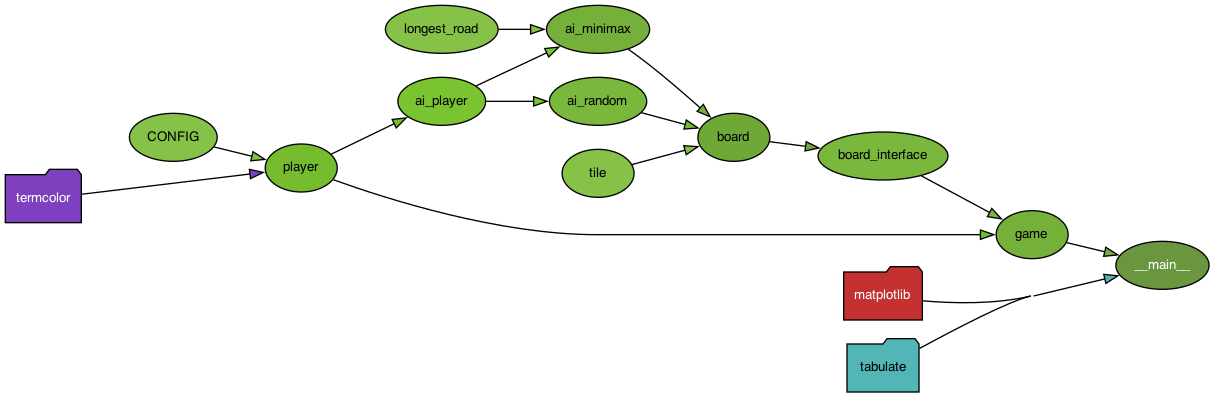
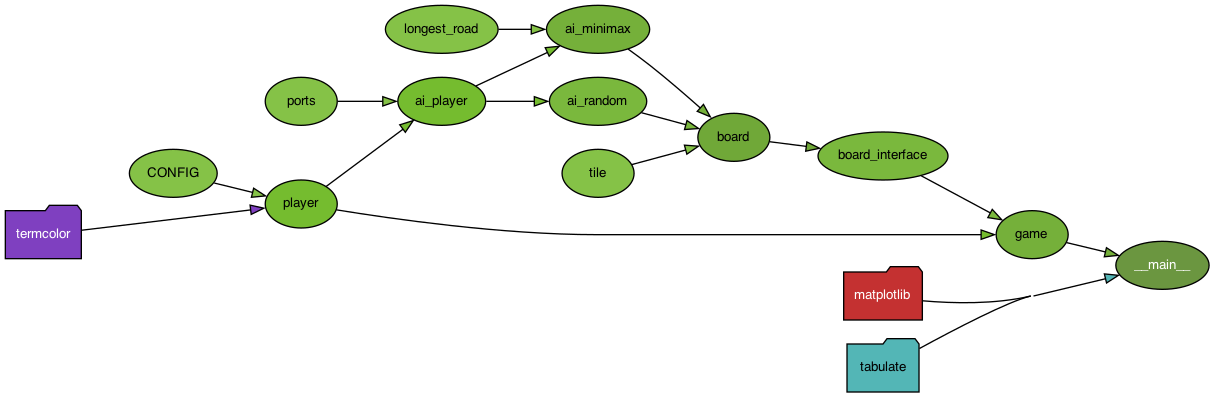
Condensed Code

diff --git a/src/ai_minimax.py b/src/ai_minimax.py
@@ -567,6 +567,16 @@ class ai_minimax(ai_player):
 
     # Minimax functions --------------------------------------------------------
 
+    def get_best_move(self, interface, current_player, local_moves):
+        scores = []
+        for move in local_moves:
+            clone = copy.deepcopy(current_player)
+            interface_clone = copy.deepcopy(interface)
+            interface_clone.set_minimax(True)
+            self.perform_minimax_move(clone, interface_clone, move)
+            scores.append([move, self.evaluate_board(interface_clone)])
+        return [max(scores, key=lambda x: x[1])[0]]
+
     def get_move_combinations(self, interface, current_player) -> list | bool:
         """
         Returns a list of all possible combinations of moves for the player
@@ -588,17 +598,30 @@ class ai_minimax(ai_player):
 
             # Append settlement locations
             if move == "build settlement":
+                local_moves = []
                 for location in interface.get_potential_building_locations(
                     current_player
                 ):
-                    full_move_list.append(["build settlement", location])
+                    local_moves.append(["build settlement", location])
+
+                if self.epsilon_pruning >= 2:
+                    local_moves = self.get_best_move(
+                        interface, current_player, local_moves
+                    )
+                full_move_list.extend(local_moves)
 
             # Append city locations
             elif move == "build city":
+                local_moves = []
                 for location in interface.get_potential_building_locations(
                     current_player, "city"
                 ):
-                    full_move_list.append(["build city", location])
+                    local_moves.append(["build city", location])
+                if self.epsilon_pruning >= 2:
+                    local_moves = self.get_best_move(
+                        interface, current_player, local_moves
+                    )
+                full_move_list.extend(local_moves)
 
             # Append road locations
             elif move == "build road":
@@ -607,14 +630,9 @@ class ai_minimax(ai_player):
                     local_moves.append(["build road", location])
 
                 if self.epsilon_pruning >= 2:
-                    scores = []
-                    for move in local_moves:
-                        clone = copy.deepcopy(current_player)
-                        interface_clone = copy.deepcopy(interface)
-                        interface_clone.set_minimax(True)
-                        self.perform_minimax_move(clone, interface_clone, move)
-                        scores.append([move, self.evaluate_board(interface_clone)])
-                    local_moves = [max(scores, key=lambda x: x[1])[0]]
+                    local_moves = self.get_best_move(
+                        interface, current_player, local_moves
+                    )
                 full_move_list.extend(local_moves)
 
             # Append trade with bank moves
@@ -737,18 +755,9 @@ class ai_minimax(ai_player):
                                     )
 
                             if self.epsilon_pruning >= 1:
-                                scores = []
-                                for move in local_moves:
-                                    clone = copy.deepcopy(current_player)
-                                    interface_clone = copy.deepcopy(interface)
-                                    interface_clone.set_minimax(True)
-                                    self.perform_minimax_move(
-                                        clone, interface_clone, move
-                                    )
-                                    scores.append(
-                                        [move, self.evaluate_board(interface_clone)]
-                                    )
-                                local_moves = [max(scores, key=lambda x: x[1])[0]]
+                                local_moves = self.get_best_move(
+                                    interface, current_player, local_moves
+                                )
                             full_move_list.extend(local_moves)
 
                         # Monopoly with all possible resources
@@ -758,18 +767,9 @@ class ai_minimax(ai_player):
                                 local_moves.append([move, card, resource])
 
                             if self.epsilon_pruning >= 1:
-                                scores = []
-                                for move in local_moves:
-                                    clone = copy.deepcopy(current_player)
-                                    interface_clone = copy.deepcopy(interface)
-                                    interface_clone.set_minimax(True)
-                                    self.perform_minimax_move(
-                                        clone, interface_clone, move
-                                    )
-                                    scores.append(
-                                        [move, self.evaluate_board(interface_clone)]
-                                    )
-                                local_moves = [max(scores, key=lambda x: x[1])[0]]
+                                local_moves = self.get_best_move(
+                                    interface, current_player, local_moves
+                                )
                             full_move_list.extend(local_moves)
                 else:
                     pass
@@ -941,7 +941,7 @@ class ai_minimax(ai_player):
                         self.log(f"Pruning at depth {max_depth}")
                         break
 
-                    # TODO - A note on imperfect information
+                    # A note on imperfect information
                     # In a regular board game, you cannot see your opponent's hand.
                     # However, you can, in fact, keep an eye on which cards are given and played, as this is public
                     # information based on the dice roll. Given that it would be possible to keep track of this, I
@@ -959,12 +959,16 @@ class ai_minimax(ai_player):
         :return: The move to be made
         """
 
-        print("Beginning minimax")
+        print(self.name + " is thinking...")
         # Log that the minimax search has begun
         self.log(
             "\n\n$!\n\nBeginning minimax search on turn " + str(interface.turn_number)
         )
-        self.log("Top level moves: " + str(self.get_move_combinations(interface, self)))
+        moves = self.get_move_combinations(interface, self)
+        self.log("Top level moves: " + str(moves))
+        if len(moves) == 1 and moves[0] == ["end turn"]:
+            print("Only one move available, ending turn")
+            raise endOfTurnException
         # Set the start time
         self.start_time = datetime.now()
         self.log("Start time: " + str(self.start_time))

diff --git a/src/__main__.py b/src/__main__.py
@@ -209,34 +209,48 @@ if __name__ == "__main__":
 
                     while True:
                         try:
-
                             # Print all the options
                             os.system("clear" if os.name == "posix" else "cls")
+                            option_mapping = {
+                                "1": {
+                                    "CONFIG": "number_of_matches",
+                                    "Prompt": "Number of Matches",
+                                },
+                                "2": {
+                                    "CONFIG": "target_score",
+                                    "Prompt": "Victory Point Target",
+                                },
+                                "3": {
+                                    "CONFIG": "table_top_mode",
+                                    "Prompt": "Table Top Mode",
+                                },
+                                "4": {
+                                    "CONFIG": "display_mode_focus",
+                                    "Prompt": "Display Mode",
+                                },
+                                "5": {
+                                    "CONFIG": "board_layout",
+                                    "Prompt": "Board Layout",
+                                },
+                                "6": {
+                                    "CONFIG": "randomise_starting_locations",
+                                    "Prompt": "Randomise Starting Locations",
+                                },
+                            }
                             print(
                                 "\nSelect a number to modify the current setup, or return to go back:\n"
                             )
-                            print(
-                                "1. Number of Matches: ".ljust(35)
-                                + str(CONFIG["number_of_matches"]).rjust(5)
-                            )
-                            print(
-                                "2. Victory Point Target: ".ljust(35)
-                                + str(CONFIG["target_score"]).rjust(5)
-                            )
-                            print(
-                                "3. Table Top Mode: ".ljust(35)
-                                + str(CONFIG["table_top_mode"]).rjust(5)
-                            )
-                            print(
-                                "4. Display Mode: ".ljust(35)
-                                + str(CONFIG["display_mode_focus"]).rjust(5)
-                            )
-                            print(
-                                "5. Randomise Starting Locations".ljust(35)
-                                + str(CONFIG["randomise_starting_locations"]).rjust(5)
-                            )
-                            print("6. Return")
 
+                            for option in option_mapping:
+                                print(
+                                    option
+                                    + ". "
+                                    + option_mapping[option]["Prompt"].ljust(35)
+                                    + str(
+                                        CONFIG[option_mapping[option]["CONFIG"]]
+                                    ).rjust(7)
+                                )
+                            print(len(option_mapping) + 1, ". Return")
                             # Get the answer
                             answer = int(input(""))
 
@@ -295,6 +309,20 @@ if __name__ == "__main__":
 
                             elif answer == 5:
                                 print(
+                                    "Please enter which board layout you want, 'default' or 'random'"
+                                )
+                                print("1. Default")
+                                print("2. Random")
+                                answer = int(input(""))
+                                if answer == 1:
+                                    CONFIG["board_layout"] = "default"
+                                elif answer == 2:
+                                    CONFIG["board_layout"] = "random"
+                                else:
+                                    raise ValueError
+
+                            elif answer == 6:
+                                print(
                                     "Please enter whether you would like to randomise starting locations (y/n):"
                                 )
                                 answer = input("")
@@ -306,7 +334,7 @@ if __name__ == "__main__":
                                     raise ValueError
 
                             # Catch invalid options
-                            elif answer == 6:
+                            elif answer == 7:
                                 break
 
                         # Catch invalid values

diff --git a/src/CONFIG.py b/src/CONFIG.py
@@ -7,10 +7,7 @@ Is overwritten by anything set while the program is running, but then will retur
 
 
 CONFIG = {
-    # Minimax Depth -
-    # Depth to which the minimax algorithm will search
-    # 0 means it only looks at the current state
-    "minimax_max_depth": 4,
+    # BOARD / GAME CONFIGURATION ----------------------------------------------
     # Display Mode -
     # Whether to display the board cleanly but with poor text formatting, or with good text formatting but a flashing screen
     # Options are 'board' or 'text'
@@ -19,14 +16,6 @@ CONFIG = {
     # Modify the target score for shorter or longer games
     # Minimum is 3
     "target_score": 10,
-    # MiniMax Max Time -
-    # Maximum time in seconds that the MiniMax algorithm will take to find the best move
-    # If it takes longer than this, it will return the best move it has found so far
-    "minimax_time_limit": 90,
-    # Log MiniMax Score Calculation -
-    # If enabled, logs the score calculation for each move in the MiniMax algorithm
-    # This is useful for debugging, but will fill up the log file very quickly
-    "log_minimax_score_calculation": False,
     # Board Layout -
     # Set to either 'default' or 'random'
     # 'default' will use the standard board layout
@@ -39,14 +28,22 @@ CONFIG = {
     # Number of Matches -
     # Number of matches to play in a row before exiting
     "number_of_matches": 1,
-    # Maximum Moves per Turn -
-    # Set the maximum number of moves that can be made in a single turn, per player type
-    "max_moves_per_turn_human": None,
-    "max_moves_per_turn_ai": 5,
-    # AI Doesn't Initiate Trades -
-    # If enabled, the AI will not initiate trades
-    # This can save a lot of time in the MiniMax algorithm
-    "ai_doesnt_initiate_trades": False,
+    # Randomise Starting Locations -
+    # If enabled, the starting locations of all players will be randomised
+    "randomise_starting_locations": False,
+    # MINIMAX CONFIGURATION ---------------------------------------------------
+    # Minimax Depth -
+    # Depth to which the minimax algorithm will search
+    # 0 means it only looks at the current state
+    "minimax_max_depth": 4,
+    # MiniMax Max Time -
+    # Maximum time in seconds that the MiniMax algorithm will take to find the best move
+    # If it takes longer than this, it will return the best move it has found so far
+    "minimax_time_limit": 90,
+    # Log MiniMax Score Calculation -
+    # If enabled, logs the score calculation for each move in the MiniMax algorithm
+    # This is useful for debugging, but will fill up the log file very quickly
+    "log_minimax_score_calculation": False,
     # Epsilon Pruning Level -
     # If enabled, the MiniMax algorithm will use epsilon pruning to speed up the search
     # Epsilon pruning evaluates similar moves before appending them to the tree, to avoid unnecessary calculations
@@ -57,7 +54,13 @@ CONFIG = {
     # Recommended Level is 1
     # See README.md for more information
     "epsilon_pruning_level": 1,
-    # Randomise Starting Locations -
-    # If enabled, the starting locations of all players will be randomised
-    "randomise_starting_locations": False,
+    # AI CONFIGURATION --------------------------------------------------------
+    # Maximum Moves per Turn -
+    # Set the maximum number of moves that can be made in a single turn, per player type
+    "max_moves_per_turn_human": None,
+    "max_moves_per_turn_ai": 5,
+    # AI Doesn't Initiate Trades -
+    # If enabled, the AI will not initiate trades
+    # This can save a lot of time in the MiniMax algorithm
+    "ai_doesnt_initiate_trades": False,
 }

diff --git a/src/board.py b/src/board.py
@@ -669,6 +669,8 @@ class board:
                     )
                     i += 1
 
+            # TODO Random port location
+
         # Add the required cards to their decks
 
         # Resource Deck
@@ -913,7 +915,7 @@ class board:
         # This prints the deck, players and their stats
         print("\n")
         print(
-            f"Turn: {str(self.turn).ljust(3)}  🌾 🌲 🐑 🧱 🪨   ❔    Roll: {dice}    ".center(
+            f"Turn: {str(self.turn).ljust(3)}  🌾 🌲 🐑 🧱 🪨  ❔    Roll: {dice}    ".center(
                 terminal_width
             ),
             end="",
@@ -930,7 +932,7 @@ class board:
             reverse=True,
         )
 
-        # Print the players and their stats, including longest road, largest army and soldier cards
+        # Print the players and their stats, including the longest road, the largest army and soldier cards
         for player_ in players_in_order:
             text = f"{player_}".ljust(35)
             LR = "LR" if player_ == self.longest_road[0] else "  "

diff --git a/src/game.py b/src/game.py
@@ -216,6 +216,12 @@ class game:
                         limit = 100
                     for i in range(limit):
                         # Get the player to perform an action
+                        if (
+                            isinstance(player_, ai_random)
+                            and not self.interface.all_players_ai
+                        ):
+                            print(f"{player_} is thinking...")
+                            time.sleep(random.uniform(0.5, 1.5))
                         player_.turn_actions(self.interface)
                         self.interface.update_special_cards()
                         num_moves_made += 1
